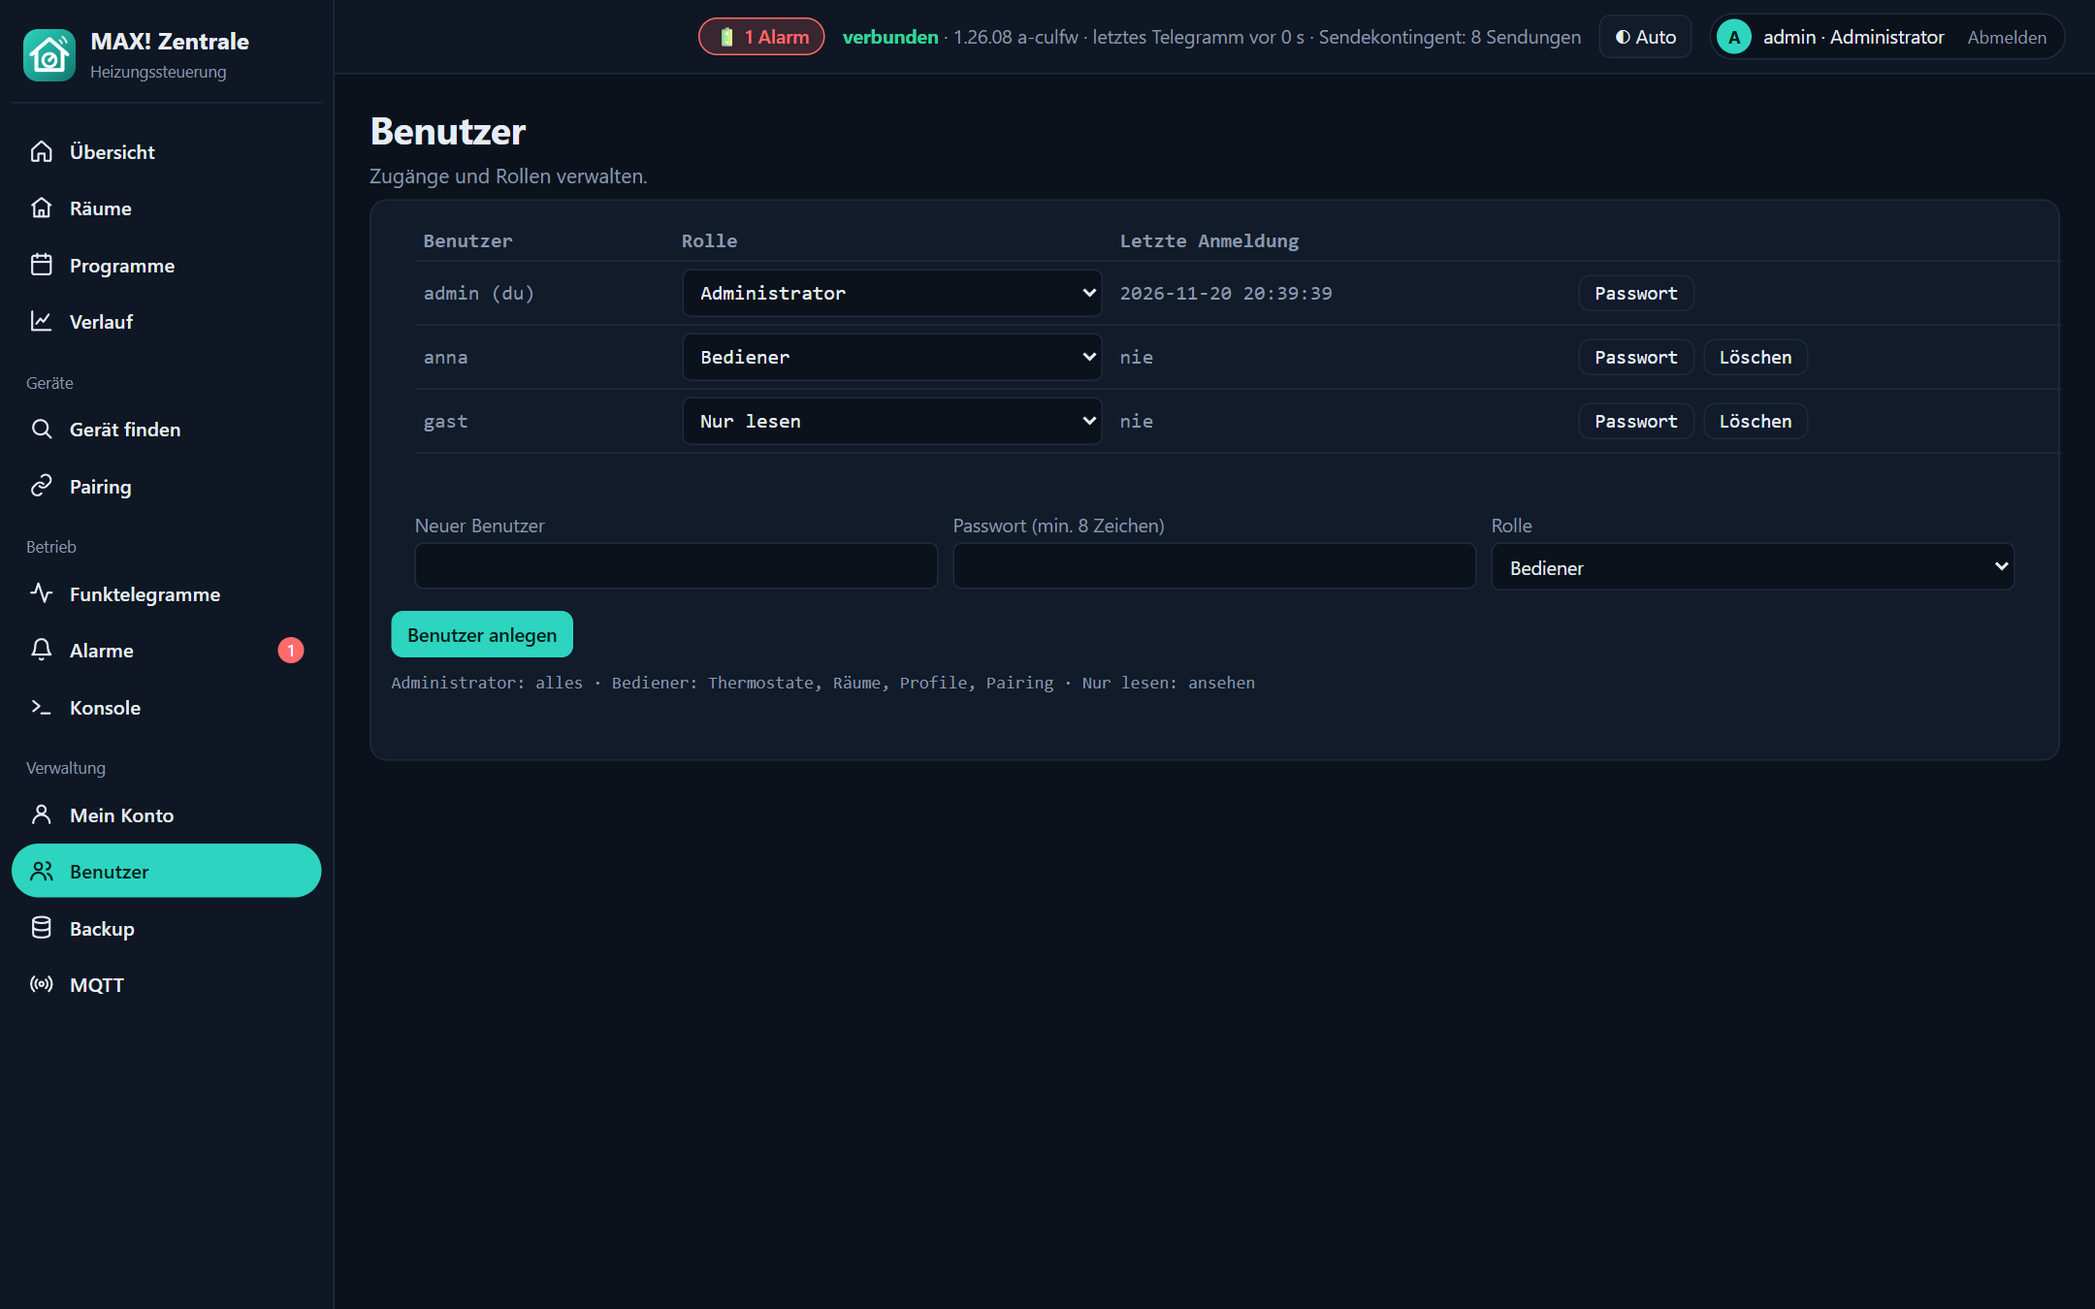
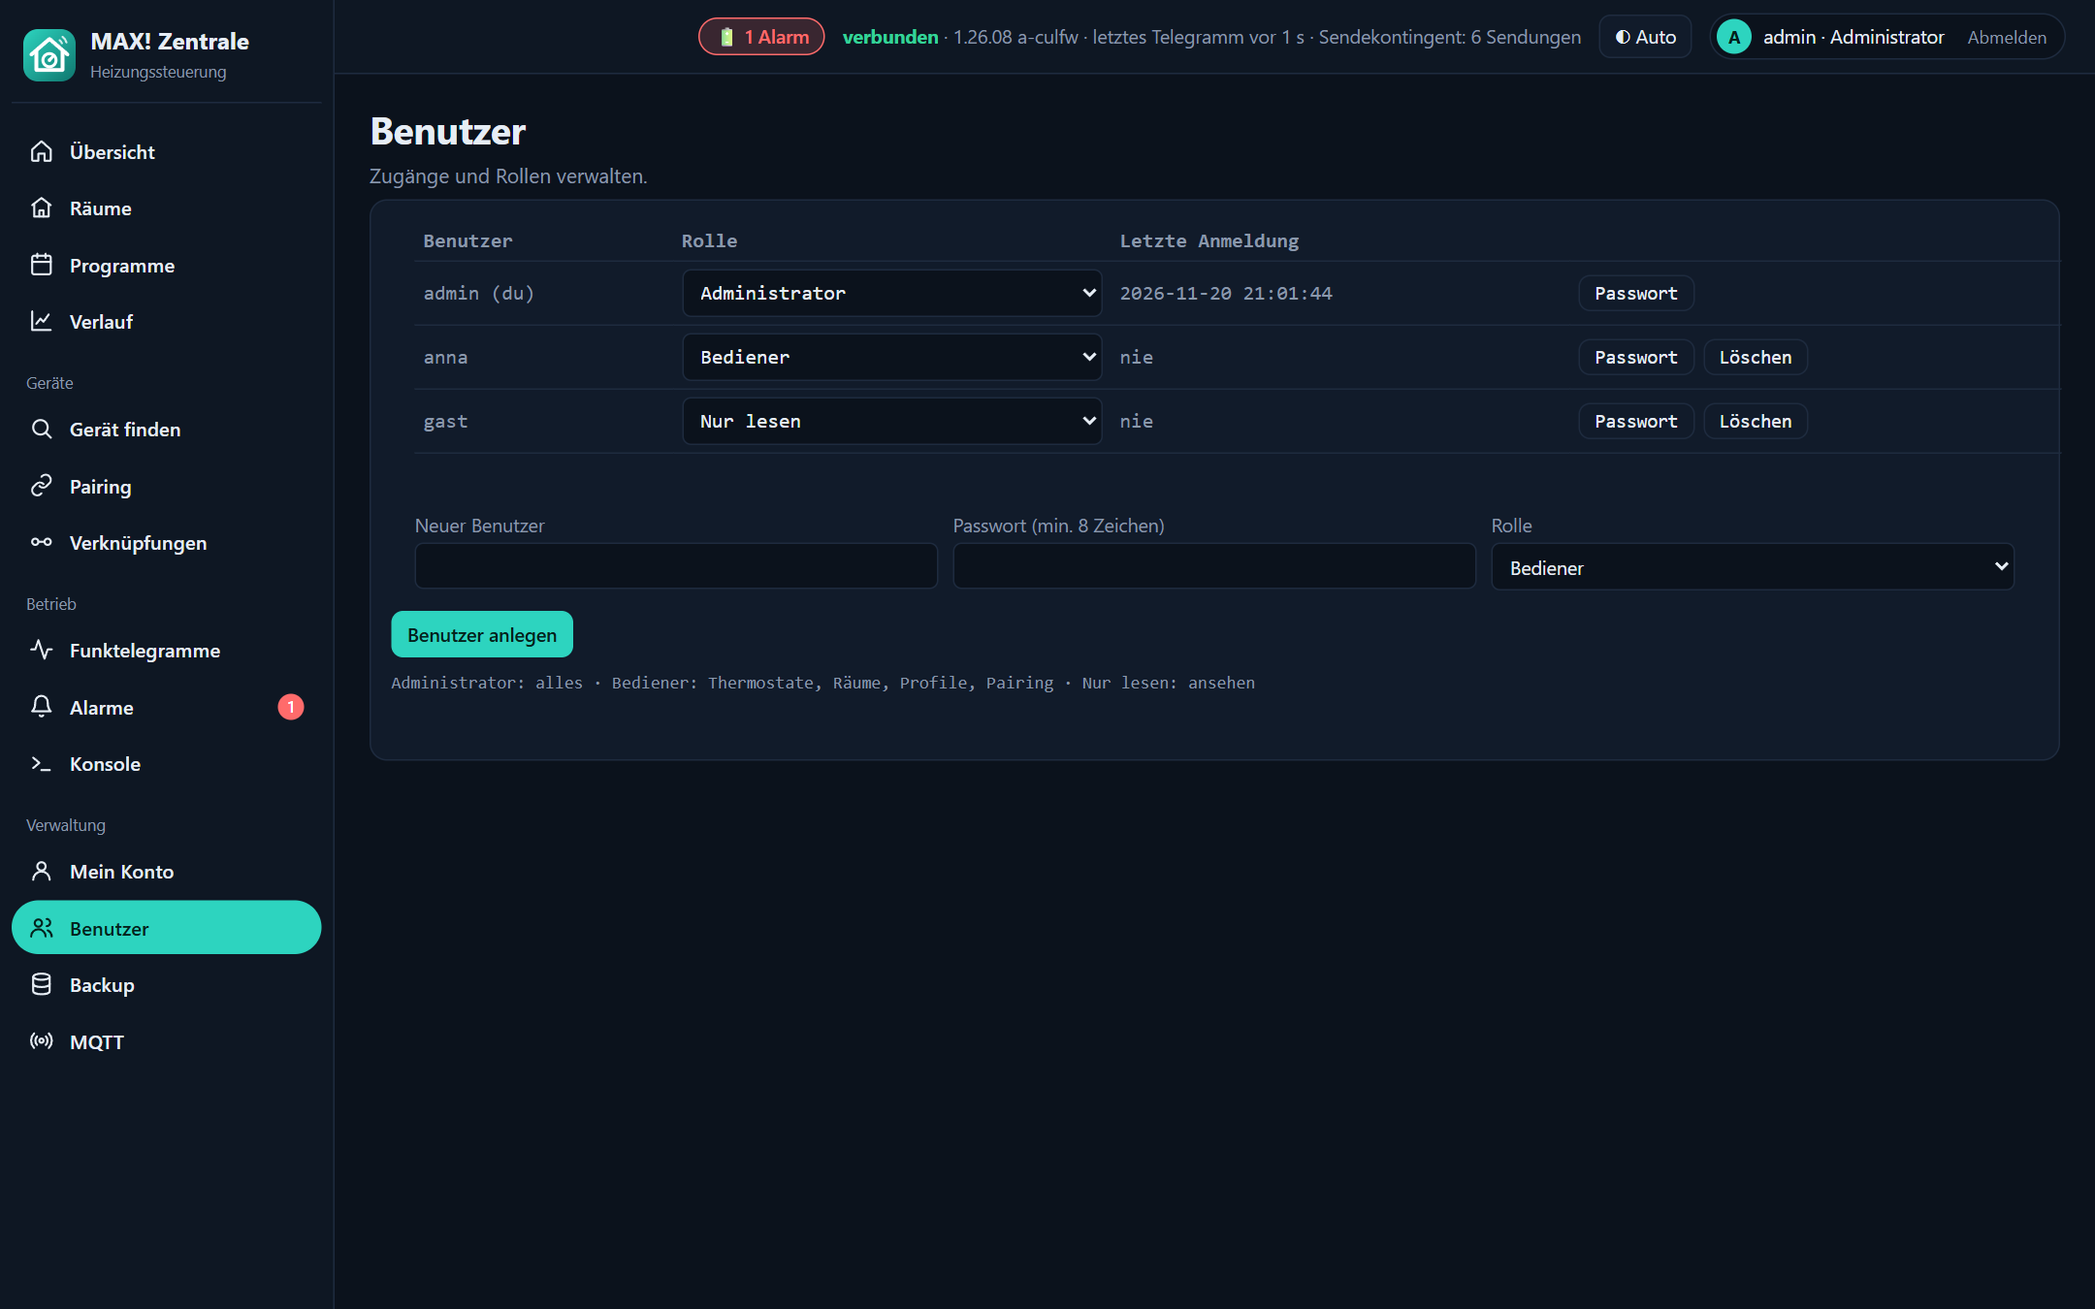
Verknüpfungen: Fensterkontakte/Wandthermostate mit Thermostaten verlinken (Link-Partner 0x20/0x21)

diff --git a/web/index.html b/web/index.html
@@ -178,6 +178,7 @@ button.nm:hover .pen{color:var(--blue)}
 <div class="grp">Geräte</div>
 <a href="#find" data-p="find"><svg viewBox="0 0 24 24"><circle cx="11" cy="11" r="7"/><path d="M21 21l-4.3-4.3"/></svg>Gerät finden</a>
 <a href="#pairing" data-p="pairing"><svg viewBox="0 0 24 24"><path d="M10 13a5 5 0 0 0 7 0l3-3a5 5 0 0 0-7-7l-1 1"/><path d="M14 11a5 5 0 0 0-7 0l-3 3a5 5 0 0 0 7 7l1-1"/></svg>Pairing</a>
+<a href="#links" data-p="links"><svg viewBox="0 0 24 24"><circle cx="6" cy="12" r="3"/><circle cx="18" cy="12" r="3"/><path d="M9 12h6"/></svg>Verknüpfungen</a>
 <div class="grp">Betrieb</div>
 <a href="#telegrams" data-p="telegrams"><svg viewBox="0 0 24 24"><path d="M22 12h-4l-3 9L9 3l-3 9H2"/></svg>Funktelegramme</a>
 <a href="#alerts" data-p="alerts"><svg viewBox="0 0 24 24"><path d="M18 8a6 6 0 0 0-12 0c0 7-3 9-3 9h18s-3-2-3-9"/><path d="M13.7 21a2 2 0 0 1-3.4 0"/></svg>Alarme<span id="navbadge" class="nb" hidden></span></a>
@@ -240,6 +241,12 @@ button.nm:hover .pen{color:var(--blue)}
 <div id="cfgbox"><span class="addr">Noch kein Gerät gewählt.</span></div>
 <h2>Wochenprofil</h2>
 <div id="profbox"><span class="addr">Noch kein Gerät gewählt.</span></div>
+</section>
+<section data-page="links">
+<div class="phead"><h1>Verknüpfungen</h1><p>Ein Fensterkontakt (oder Wandthermostat) kann direkt mit einem Heizkörperthermostat verknüpft werden: Öffnet sich das Fenster, senkt das Thermostat selbständig die Temperatur – auch ohne Zentrale. Die Verknüpfung wird in beide Geräte geschrieben.</p></div>
+<div class="setbox" id="linkadd"></div>
+<h2>Bestehende Verknüpfungen</h2>
+<div class="setbox" id="linklist"></div>
 </section>
 <section data-page="alerts">
 <div class="phead"><h1>Alarme</h1><p>Schwache Batterien – in der Oberfläche und optional per E-Mail.</p></div>
@@ -663,7 +670,7 @@ $("#addroom").onclick=async()=>{
 document.querySelectorAll("[data-h]").forEach(b=>b.onclick=()=>{hours=+b.dataset.h;drawChart();});
 
 /* ---------------------------------------------------------- navigation */
-const PAGES=["home","rooms","find","pairing","history","programs","alerts","console","telegrams","account","users","backup","mqtt"];
+const PAGES=["home","rooms","find","pairing","links","history","programs","alerts","console","telegrams","account","users","backup","mqtt"];
 let page="home";
 let progAddr=null;
 function goto(p){
@@ -683,6 +690,7 @@ function goto(p){
   if(p==="mqtt")renderMqtt();
   if(p==="backup")renderBackup();
   if(p==="alerts")renderAlerts2();
+  if(p==="links")renderLinks();
 }
 window.addEventListener("hashchange",()=>goto(location.hash.slice(1)));
 function fillHist(){
@@ -762,6 +770,33 @@ async function renderAlerts2(){
       el("button",{onclick:async()=>{const s1=await api("/api/alerts",form());if(!s1.data.ok)return say(m,s1.data.error||"Fehler",false);
         say(m,"sende …",true);const x=await api("/api/alerts",{action:"test"});say(m,x.data.ok?"Testmail gesendet.":"Fehler: "+(x.data.error||x.status),x.data.ok);}},"Speichern & Testmail senden")),
     el("div",{class:"addr"},"Die Meldung kommt beim Entstehen des Alarms und danach als Erinnerung, bis die Batterie getauscht ist."+(st.last_mail?" Letzte Mail: "+fm(st.last_mail)+".":"")+(st.last_error?" Letzter Fehler: "+st.last_error:"")+" Das SMTP-Passwort liegt unverschlüsselt in der Datenbank."),m);
+}
+/* ------------------------------------------------------ Verknüpfungen */
+function renderLinks(){const fm=t=>(t||"").replace("T"," ");
+  if(!state)return;
+  const dn=a=>{const d=state.devices.find(x=>x.addr===a);return d?(d.name||"Unbenannt")+" ("+(KINDDE[d.kind]||"Gerät")+", "+a+")":a;};
+  const lk=state.links||[],m=msgEl(),ok=canOperate();
+  const act=async(a,b,remove)=>{say(m,"sende … (kann bis zu einer Minute dauern)",true);
+    const x=await api("/api/link",{addr:a,partner:b,remove});
+    if(!x.data.ok){say(m,x.data.error||"Fehler",false);return;}
+    await load();renderLinks();};
+  $("#linklist").replaceChildren(lk.length?el("table",{},el("tr",{},...["Gerät","Partner","Gesendet",""].map(h=>el("th",{},h))),
+    ...lk.map(l=>el("tr",{},el("td",{},dn(l.a)),el("td",{},dn(l.b)),el("td",{},fm(l.sent_at)),
+      el("td",{},ok?el("button",{onclick:async()=>{if(await askOk("Verknüpfung wirklich lösen?"))act(l.a,l.b,true);}},"Lösen"):"")))):
+    el("div",{class:"addr"},"Noch keine Verknüpfung von hier aus gesetzt."),m);
+  const win=state.devices.filter(d=>d.kind==="ShutterContact"||KIND[d.kind]==="wall"),
+        heat=state.devices.filter(d=>KIND[d.kind]==="heat"||KIND[d.kind]==="wall");
+  const opt=l=>l.map(d=>el("option",{value:d.addr},dn(d.addr)));
+  const a=el("select",{},opt(win)),b=el("select",{},opt(heat));
+  const m2=msgEl();
+  $("#linkadd").replaceChildren(el("div",{class:"grid"},field("Fensterkontakt / Wandthermostat",a),field("Heizkörper- oder Wandthermostat",b)),
+    el("div",{class:"row"},el("button",{class:"pri",...(ok?{}:{disabled:""}),onclick:async()=>{
+      if(!a.value||!b.value||a.value===b.value)return say(m2,"Bitte zwei verschiedene Geräte wählen.",false);
+      say(m2,"sende … (kann bis zu einer Minute dauern)",true);
+      const x=await api("/api/link",{addr:a.value,partner:b.value});
+      if(!x.data.ok)return say(m2,x.data.error||"Fehler",false);
+      await load();renderLinks();}},"Verknüpfen")),
+    el("div",{class:"addr"},"Beide Geräte müssen den Befehl bestätigen. Batteriegeräte (Fensterkontakt, Heizkörperthermostat) hören nur kurz nach ihrem eigenen Senden zu; ein Fehlschlag lässt sich einfach wiederholen. Nur Verknüpfungen, die von hier aus gesetzt wurden, werden aufgelistet."),m2);
 }
 function renderKpis(){
   if(!state)return;renderAlerts();renderBadge();

diff --git a/max_server.py b/max_server.py
@@ -43,6 +43,8 @@ CREATE TABLE IF NOT EXISTS rooms (
     id INTEGER PRIMARY KEY AUTOINCREMENT, name TEXT NOT NULL UNIQUE);
 CREATE TABLE IF NOT EXISTS device_room (
     addr TEXT PRIMARY KEY, room_id INTEGER REFERENCES rooms(id));
+CREATE TABLE IF NOT EXISTS links (
+    a TEXT, b TEXT, sent_at TEXT, PRIMARY KEY (a, b));
 CREATE TABLE IF NOT EXISTS profiles (
     addr TEXT, day TEXT, points TEXT, sent_at TEXT, PRIMARY KEY (addr, day));
 """
@@ -394,7 +396,7 @@ def build_state(db_path, worker):
                           for e in worker.pair_events]}
     alerts = q(db_path, "SELECT addr, kind, since FROM alerts WHERE cleared IS NULL "
                         "ORDER BY since")
-    return {"devices": devices, "rooms": rooms, "pairing": pairing, "alerts": alerts,
+    return {"devices": devices, "rooms": rooms, "pairing": pairing, "alerts": alerts, "links": q(db_path, "SELECT a, b, sent_at FROM links ORDER BY a, b"),
             "now": datetime.now().isoformat(timespec="seconds"),
             "status": worker.status, "source": worker.src}
 
@@ -922,6 +924,45 @@ class Handler(BaseHTTPRequestHandler):
                            datetime.now().isoformat(timespec="seconds")))
                 c.commit(); c.close()
             return self.reply(200 if job.result["ok"] else 502, job.result)
+
+        if self.path == "/api/link":
+            # link two devices (AddLinkPartner 0x20 / RemoveLinkPartner 0x21), sent to both
+            partner = str(data.get("partner") or "").upper()
+            remove = bool(data.get("remove"))
+            kinds = {r["addr"]: r["kind"] for r in q(db, "SELECT addr, kind FROM devices "
+                                                         "WHERE addr IN (?,?)", (addr, partner))}
+            if addr == partner or addr not in kinds or partner not in kinds:
+                return self.reply(400, {"error": "unknown devices"})
+            tstat = ("HeatingThermostat", "HeatingThermostatPlus", "WallThermostat")
+            if not any(k in tstat and kinds[o] in tstat + ("ShutterContact",)
+                       for k, o in ((kinds[addr], partner), (kinds[partner], addr))):
+                return self.reply(400, {"error": "ein Partner muss ein Thermostat sein"})
+            if kinds[addr] == "ShutterContact" and kinds[partner] == "ShutterContact":
+                return self.reply(400, {"error": "zwei Fensterkontakte lassen sich nicht verknüpfen"})
+            tcode = {v: k for k, v in DEVICE_TYPES.items()}
+            res = {"ok": True}
+            for dst, other in ((addr, partner), (partner, addr)):
+                job = Job(dst, 0.0, "raw")
+                job.kind = "raw"
+                job.raw = build_raw(worker.src, dst, 0x21 if remove else 0x20,
+                                    bytes.fromhex(other) + bytes([tcode[kinds[other]]]))
+                worker.jobs.put(job)
+                if not job.done.wait(30):
+                    job.cancelled = True
+                    return self.reply(504, {"ok": False, "error": "Timeout bei %s (kein Sendekontingent oder keine Antwort)" % dst})
+                if not job.result["ok"]:
+                    return self.reply(502, {"ok": False, "error": "%s hat nicht bestätigt: %s" % (
+                        dst, job.result.get("error", ""))})
+            a, b = sorted((addr, partner))
+            c = sqlite3.connect(db)
+            if remove:
+                c.execute("DELETE FROM links WHERE a=? AND b=?", (a, b))
+            else:
+                c.execute("INSERT INTO links(a,b,sent_at) VALUES(?,?,?) ON CONFLICT(a,b) "
+                          "DO UPDATE SET sent_at=excluded.sent_at",
+                          (a, b, datetime.now().isoformat(timespec="seconds")))
+            c.commit(); c.close()
+            return self.reply(200, res)
 
         if self.path == "/api/display":
             # wall thermostat: show the actual temperature (True) or setpoint

diff --git a/tools/screenshots.py b/tools/screenshots.py
@@ -130,6 +130,12 @@ def shoot(out):
         save(page, "07-pairing")
         go("telegrams", "#log tr")
         save(page, "08-funktelegramme")
+        go("links", "#linklist")
+        page.select_option("#linkadd select >> nth=0", "1A000C")
+        page.select_option("#linkadd select >> nth=1", "1A0001")
+        page.click("#linkadd .pri")
+        page.wait_for_timeout(8000)
+        save(page, "19-verknuepfungen", full=True)
         go("alerts", "#alertsopen")
         page.wait_for_timeout(3500)
         save(page, "18-alarme", full=True)

diff --git a/tools/sim_culfw.py b/tools/sim_culfw.py
@@ -55,6 +55,8 @@ class Sim:
         cnt, type_, dst = b[1], b[3], b[7:10].hex().upper()
         d = self.dev.get(dst)
         self.credit = max(0, self.credit - 106)
+        if d and d["kind"] == "window" and type_ in (0x20, 0x21):
+            return [telegram(cnt, 0x02, dst, SRC, bytes([1]))]      # link partner ack
         if not d or d["kind"] == "window":
             return []
         if type_ == 0x40 and len(b) > 11:

diff --git a/docs/bedienung.md b/docs/bedienung.md
@@ -5,7 +5,7 @@ Alle Bilder zeigen die **Demo-Installation** mit erfundenen Geräten (siehe
 Farbschema an (Umschalter *Auto / Hell / Dunkel* oben rechts) und ist auch auf dem Handy nutzbar.
 
 Das Seitenmenü links gliedert sich in **Übersicht, Räume, Verlauf, Programme**, die Gruppe
-**Geräte** (*Gerät finden*, *Pairing*), die Gruppe **Betrieb** (*Alarme*, *Funktelegramme*, *Konsole*)
+**Geräte** (*Gerät finden*, *Pairing*, *Verknüpfungen*), die Gruppe **Betrieb** (*Alarme*, *Funktelegramme*, *Konsole*)
 und die Gruppe **Verwaltung** (*Mein Konto*, *Benutzer*, *Backup*, *MQTT*). *Benutzer*, *Backup*
 und *MQTT* sehen nur Administratoren.
 
@@ -19,6 +19,7 @@ Sendekontingent), der Farbschema-Umschalter und dein Benutzer mit „Abmelden“
 * [Verlauf](#verlauf)
 * [Gerät finden](#gerät-finden)
 * [Pairing](#pairing)
+* [Verknüpfungen](#verknüpfungen)
 * [Funktelegramme](#funktelegramme)
 * [Alarme](#alarme)
 * [Konsole](#konsole)
@@ -135,6 +136,23 @@ Sendekontingent“ mit der Wartezeit da, und die Anfrage wird beim nächsten Pin
 wiederholt. Pairing hat Vorrang vor anderen Sendungen.
 
 ![Pairing](screenshots/07-pairing.png)
+
+## Verknüpfungen
+
+Ein Fensterkontakt kann direkt mit einem Heizkörperthermostat verknüpft werden. Öffnet sich das
+Fenster, senkt das Thermostat selbständig die Temperatur (Fenster-offen-Temperatur, siehe
+[Programme](#programme)) – auch wenn die Zentrale ausgeschaltet ist. Ebenso lässt sich ein
+Wandthermostat mit Heizkörperthermostaten verknüpfen.
+
+Auf der Seite wählst du links den Fensterkontakt (oder Wandthermostat), rechts das Thermostat und
+klickst **Verknüpfen**. Die Zentrale sendet den Befehl nacheinander an beide Geräte und wartet
+jeweils auf die Bestätigung; das kann bis zu einer Minute dauern (Sendekontingent, Geräte hören nur
+kurz nach ihrem eigenen Senden zu). Schlägt es fehl, einfach wiederholen. Unter *Bestehende
+Verknüpfungen* steht, was von hier aus gesetzt wurde; **Lösen** entfernt die Verknüpfung wieder.
+Die Geräte lassen sich nicht auslesen – Verknüpfungen, die zuvor mit anderer Software gesetzt
+wurden, erscheinen nicht in der Liste.
+
+![Verknüpfungen](screenshots/19-verknuepfungen.png)
 
 ## Funktelegramme
 

diff --git a/docs/protokoll.md b/docs/protokoll.md
@@ -102,6 +102,15 @@ Geräte erwarten ihre Befehle von der Adresse ihres Cubes; deshalb nutzt man bei
 des alten Cubes weiter. Auf eine fremde Adresse reagiert ein Gerät nicht – außer beim Pairing,
 bei dem es sich an den Absender der PairPong-Antwort bindet.
 
+## Verknüpfungen (Link-Partner)
+
+`20` (AddLinkPartner) und `21` (RemoveLinkPartner) tragen als Nutzlast die Adresse des Partners
+(3 Byte) und dessen Gerätetyp (1 Byte: 1 Heizkörper, 2 Heizkörper+, 3 Wandthermostat,
+4 Fensterkontakt, 5 Taster). Die Zentrale sendet den Befehl an **beide** Geräte, jeweils mit der
+Adresse des anderen. Danach schickt der Fensterkontakt seine Zustandstelegramme (`30`) auch direkt
+an das Thermostat, das bei offenem Fenster selbständig die Fenster-offen-Temperatur einstellt –
+unabhängig davon, ob die Zentrale läuft.
+
 ## Zeitsynchronisation
 
 Wandthermostate und Heizkörper fragen ihre Uhrzeit per `03` an oder melden sie. Weicht die Zeit
@@ -112,7 +121,7 @@ lokalen Zeit; maximal einmal pro Minute je Gerät, um das Sendekontingent zu sch
 
 * Wochenprofile und Konfiguration lassen sich **nicht auslesen**, nur senden.
 * Der Cube kann nicht gleichzeitig als MAX!-Cube und als CUL arbeiten – er wird umgeflasht.
-* Fensterkontakte lassen sich nicht direkt mit Thermostaten „verlinken“ (Link-Partner-Telegramme
-  `20`/`21` sind nicht implementiert); die Zentrale meldet nur den Zustand.
+* Eine Verknüpfung (Fensterkontakt ↔ Thermostat) lässt sich nur setzen und lösen, nicht aus den
+  Geräten auslesen; die Zentrale merkt sich, was sie selbst gesetzt hat (Tabelle `links`).
 * Heizkörperthermostate melden die gemessene Temperatur nicht im Urlaubsmodus und nicht in jedem
   Telegramm; die Oberfläche zeigt dann den zuletzt bekannten Wert.

diff --git a/docs/entwicklung.md b/docs/entwicklung.md
@@ -43,6 +43,7 @@ Pairing-Antworten laufen über die Prioritätswarteschlange und unterbrechen war
 | `names`, `rooms`, `device_room` | Namen und Räume |
 | `profiles`, `device_config` | zuletzt gesendete Wochenprofile und Konfiguration |
 | `users`, `sessions` | Benutzerverwaltung |
+| `links` | von hier gesetzte Verknüpfungen (Gerät A, Gerät B, gesendet) |
 | `alerts` | Alarme (Gerät, Art, seit, zuletzt gemeldet, behoben) |
 | `settings` | Schlüssel/Wert (MQTT, Backup) |
 
@@ -73,6 +74,7 @@ Alle Endpunkte außer den ersten drei verlangen eine Anmeldung (Cookie). Antwort
 | `POST /api/config`, `/api/preset` | B | Komfort/Eco-Konfiguration senden; `{preset: comfort\|eco}` |
 | `POST /api/display`, `/api/time` | B | Anzeige Ist/Soll, Uhrzeit stellen |
 | `POST /api/pairing` | B | `{enable: true\|false}` |
+| `POST /api/link` | B | `{addr, partner, remove?}` – Link-Partner-Telegramme (`20`/`21`) an beide Geräte; `/api/state` enthält `links` |
 | `GET /api/alerts` | V | offene und behobene Alarme (Administratoren zusätzlich E-Mail-Einstellungen) |
 | `POST /api/alerts` | A | `{action:"settings"\|"test", …}` |
 | `GET/POST /api/users` | A | Benutzer verwalten |
@@ -130,7 +132,6 @@ Beide brauchen den exklusiven Zugriff auf den Port – den Server vorher stoppen
 
 ## Weiterentwicklung (Ideen)
 
-* Fensterkontakt-/Thermostat-Verknüpfung (Telegramme `20`/`21`),
 * Zeitplan für Räume („Urlaub“, Abwesenheit),
 * HTTPS direkt im Server,
 * Wochenprofil von mehreren Geräten gleichzeitig senden,

diff --git a/README.md b/README.md
@@ -26,6 +26,7 @@ MAX! Cube.
 | **Räume & Geräte** | Geräte benennen und Räumen zuordnen, Raumsteuerung („Alle setzen“ / „Alle Auto“), Ist-/Soll-Temperatur, Ventilstellung, Batterie- und Fensterstatus |
 | **Programme** | Wochenprofile je Heizkörper- oder Wandthermostat (bis 13 Schaltpunkte pro Tag), Komfort-/Eco-Temperatur, Fenster-offen-Temperatur, Grenzen, Offset |
 | **Wandthermostate** | Soll-Temperatur setzen, Display auf Ist- oder Soll-Temperatur umstellen |
+| **Verknüpfungen** | Fensterkontakte bzw. Wandthermostate direkt mit Heizkörperthermostaten verknüpfen (Fenster auf → Heizung runter, auch ohne Zentrale) |
 | **Pairing** | Neue oder zurückgesetzte Geräte koppeln, „Gerät finden“ (welches Gerät ist welches?) |
 | **Uhrzeit** | Automatische Uhrzeitsynchronisation, wenn ein Gerät eine falsche Zeit meldet |
 | **Verlauf** | Diagramme für Ist-, Soll-Temperatur und Ventilstellung (24 h / 7 Tage / 30 Tage) |
